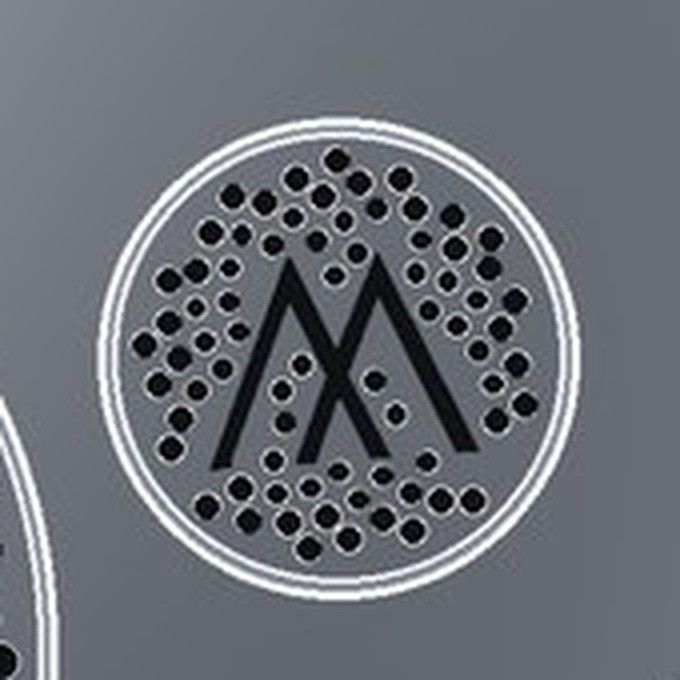
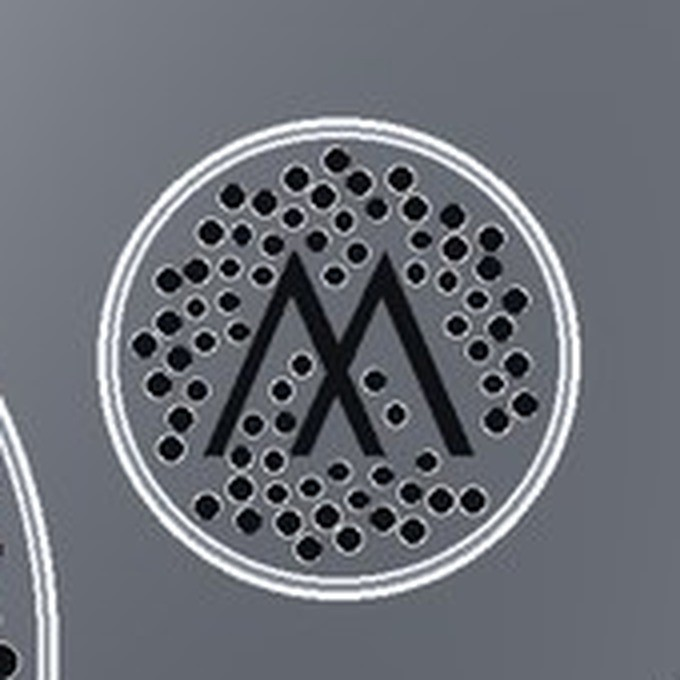
Hochtöner-M waagerecht und 0,5 mm nach oben versetzt
Claude-Session: https://claude.ai/code/session_01QM8wSzkajYxSVoAyJoSFf2

Changed region(s): [[0.2779, 0.3706, 0.6485, 0.7103], [0.6176, 0.5559, 0.7103, 0.6794], [0.5868, 0.525, 0.6176, 0.5559]]

diff --git a/testprojekt-alu-bauteil/04_cad/blende/blende_2a35.py b/testprojekt-alu-bauteil/04_cad/blende/blende_2a35.py
@@ -14,6 +14,8 @@ sys.path.insert(0,HERE); import lochmuster_opt as LM
 LM.WMIN=0.8
 import signet_m
 M_WIDTH=28.0             # ausgefrästes Signet-M im Hochtöner (echte Kontur), Breite in mm
+M_ANG=0.0                # waagerecht
+M_DY=0.5                 # 0,5 mm nach oben versetzt
 
 # ---------------- Parameter ----------------
 T=8.5                    # Blendendicke
@@ -112,7 +114,7 @@ def build_blende():
         outer=cq.Wire.makeCircle(Rf,cq.Vector(x,y,0),cq.Vector(0,0,1))
         inners=[]
         if D<60:   # Signet-M (echte Kontur) + Löcher nur mit Steg >= 0,8 mm zum M
-            M=signet_m.signet_poly(M_WIDTH,x,y)
+            M=signet_m.signet_poly(M_WIDTH,x,y+M_DY,ang=math.radians(M_ANG))
             def segd(p,a,b):
                 p,a,b=map(np.array,(p,a,b)); t=np.clip(np.dot(p-a,b-a)/np.dot(b-a,b-a),0,1); return np.linalg.norm(p-(a+t*(b-a)))
             def pip(p):

diff --git a/testprojekt-alu-bauteil/03_konzepte/render/konzepte2.py b/testprojekt-alu-bauteil/03_konzepte/render/konzepte2.py
@@ -161,7 +161,7 @@ def _pip(p,poly):
     return c
 def ht_M_kontur(pen,cx,cy,D,mw=28.0):
     """Hochtöner: Sonnenblume + echte Signet-Kontur (aus dem vektorisierten Logo) als Durchbruch, 3,7° gedreht."""
-    M=_htm.signet_poly(mw,cx,cy)
+    M=_htm.signet_poly(mw,cx,cy+0.5,ang=0.0)   # waagerecht, 0,5 mm nach oben
     opt2c.WMIN=0.8
     for x,y,d in opt2c.best_phyllo(cx,cy,D/2-1.2,_law(D)):
         if _pip((x,y),M): continue

diff --git a/testprojekt-alu-bauteil/03_konzepte/KONZEPTE.md b/testprojekt-alu-bauteil/03_konzepte/KONZEPTE.md
@@ -43,7 +43,7 @@ Sonnenblume (Spiralabstand jeweils automatisch auf den Mindeststeg optimiert):
 ## Festlegung Hochtöner: Sonnenblume + ausgefrästes Signet-M (echte Kontur)
 
 Nur im Hochtöner. Statt Schlitzen konstanter Breite wird die **echte Signet-Kontur** (aus dem
-vektorisierten Logo) als Durchbruch gefräst: Breite 28 mm, 3,7° gedreht wie das Logo, schmalste Stelle
+vektorisierten Logo) als Durchbruch gefräst: Breite 28 mm, **waagerecht, 0,5 mm über der Feldmitte**, schmalste Stelle
 1,62 mm (Fräser Ø 1,0 mm, Spitzen 49° → Verrundung r 0,5 mm). Löcher bleiben, außer sie kämen dem M
 näher als 0,8 mm. Hochtöner 27,0 % offen, **die Feldmitte (r < 4 mm) ist zu 45–99 % offen** statt 0–26 %.
 3D-Modell: `04_cad/blende/blende_2a35.py` (→ `Blende_2A35M.step/.stl`, 1.412 Bohrungen, 1.062 g).
